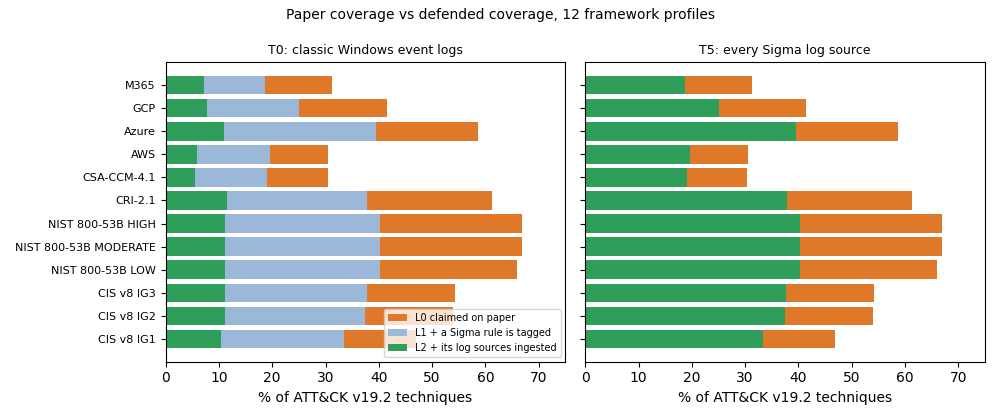
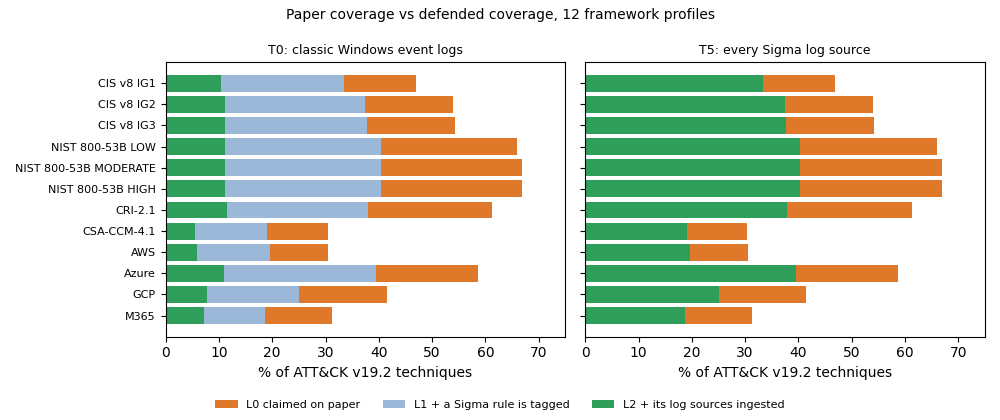
docs: refresh stale ADR numbers, move figure legends off the bars, drop stale seed TODO

Changed region(s): [[0.0, 0.1548, 0.992, 0.9905], [0.093, 0.7429, 0.155, 0.7738]]

diff --git a/benchmarks/bench_ablation.py b/benchmarks/bench_ablation.py
@@ -129,14 +129,14 @@ def figure(rows, path) -> None:
         ax.barh(list(y), [r["_l1"] for r in rs], color="#9bb8d9", label="L1 + a Sigma rule is tagged")
         ax.barh(list(y), [r["_l2"] for r in rs], color="#2f9e5b", label="L2 + its log sources ingested")
         ax.set_yticks(list(y), fws, fontsize=8)
-        ax.invert_yaxis()
         ax.set_xlim(0, 75)
         ax.set_xlabel("% of ATT&CK v19.2 techniques")
         ax.set_title({"T0": "T0: classic Windows event logs", "T5": "T5: every Sigma log source"}.get(tier, tier),
                      fontsize=9)
-    axes[0].legend(fontsize=7, loc="lower right")
+    axes[0].invert_yaxis()  # shared y axis: invert once
+    fig.legend(*axes[0].get_legend_handles_labels(), loc="lower center", ncol=3, fontsize=8, frameon=False)
     fig.suptitle("Paper coverage vs defended coverage, 12 framework profiles", fontsize=10)
-    fig.tight_layout()
+    fig.tight_layout(rect=(0, 0.06, 1, 1))
     fig.savefig(path, dpi=100)
 
 

diff --git a/benchmarks/bench_coverage.py b/benchmarks/bench_coverage.py
@@ -131,7 +131,7 @@ def figure(rows, path):
     ig2 = [r for r in rows if r["claims"] == "IG2"]
     labels = [r["tier"].split(" ", 1)[0] for r in ig2]
     x = range(len(ig2))
-    fig, ax = plt.subplots(figsize=(8, 3.6))
+    fig, ax = plt.subplots(figsize=(8, 4.0))
     ax.bar([i - 0.27 for i in x], [r["claimed_pct"] for r in ig2], 0.27, label="claimed (CIS IG2 on paper)",
            color="#e0782a")
     ax.bar(list(x), [r["detectable_pct"] for r in ig2], 0.27, label="detectable (live Sigma rule)", color="#3b82c4")
@@ -141,7 +141,7 @@ def figure(rows, path):
     ax.set_ylabel("% of 697 ATT&CK v19.2 techniques")
     ax.set_title("Paper vs real coverage by telemetry tier (CIS IG2 claimed, stable+test Sigma rules)",
                  fontsize=10)
-    ax.legend(fontsize=8)
+    ax.legend(fontsize=8, loc='upper center', bbox_to_anchor=(0.5, -0.16), ncol=3, frameon=False)
     ax.grid(axis="y", alpha=0.3)
     fig.tight_layout()
     fig.savefig(path, dpi=110)

diff --git a/vantage/seed.py b/vantage/seed.py
@@ -3,7 +3,7 @@
 Technique ids/names are real MITRE ATT&CK Enterprise identifiers. The control->technique
 and detection->technique mappings are ILLUSTRATIVE (hand-written for this demo, loosely
 inspired by public CIS v8 -> ATT&CK work); they are NOT an authoritative mapping.
-Curating production-grade mappings is a Grade-D (human judgment) TODO.
+The real catalog (``--catalog real``/``nist``) uses the official public mappings instead.
 """
 from __future__ import annotations
 

diff --git a/docs/adr/0003-networkx-core-neo4j-optional.md b/docs/adr/0003-networkx-core-neo4j-optional.md
@@ -5,7 +5,7 @@
 
 ## Context
 The spec sketches Neo4j as the graph store. The real catalog is small: 697 techniques, 153
-controls, 2,877 rules, 116 log sources and roughly 6k edges.
+controls, 2,877 rules, 116 log sources: 3,843 nodes and 9,744 edges for the Acme posture.
 
 ## Decision
 Keep all engines in-process on Python sets and NetworkX. Neo4j stays an optional exploration
@@ -13,8 +13,8 @@ target: `python -m vantage graph --format cypher` emits an idempotent, injection
 script, and `docker compose --profile neo4j up` starts a localhost-only Neo4j.
 
 Measured on the real catalog (`results/coverage.md`, part C): a full coverage computation takes
-5 ms; ranking every single point of failure takes 4 ms with the one-pass algorithm, versus 63 s by
-brute-force recomputation, with identical results (checked in the benchmark and by a property test).
+about 4 ms; ranking every single point of failure takes about 0.01 s with the one-pass algorithm,
+versus 63-283 s (depending on machine load) by brute-force recomputation, with identical results (checked in the benchmark and by a property test).
 
 ## Consequences
 - Zero infrastructure for users and CI; what-if queries are interactive in the web UI.

diff --git a/docs/adr/0007-rule-quality-weighting.md b/docs/adr/0007-rule-quality-weighting.md
@@ -20,8 +20,9 @@ Keep the binary `true_pct` as the headline, and add `weighted_true_pct` next to 
 It is computed lazily, so plain coverage passes (and the SPOF ranking) cost nothing extra.
 
 ## Consequences
-- `weighted_true_pct <= true_pct` always. On the real catalog it sits 2.5-4 pp below the binary
-  score (for example CIS IG2 with every log source: 37.4% binary, 33.5% weighted).
+- `weighted_true_pct <= true_pct` always. On the real catalog it sits 1.8-4.0 pp below the binary score for CIS
+  and 2.0-4.4 pp for NIST, across the telemetry tiers. Example: the binary
+  score for CIS IG2 with every log source is 37.4% and the weighted one 33.5%.
 - The weights are assumptions, not measured precision/recall. Sigma `falsepositives` notes are
   free text and are not used. Treat the number as a sensitivity check, not a detection-quality
   measurement.
